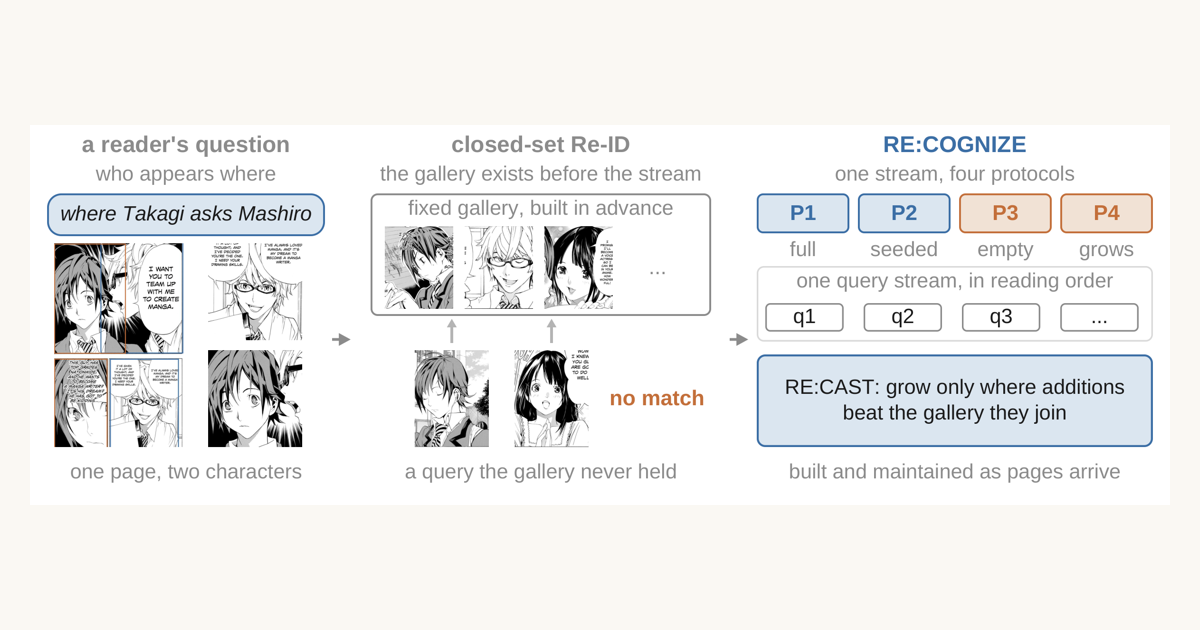
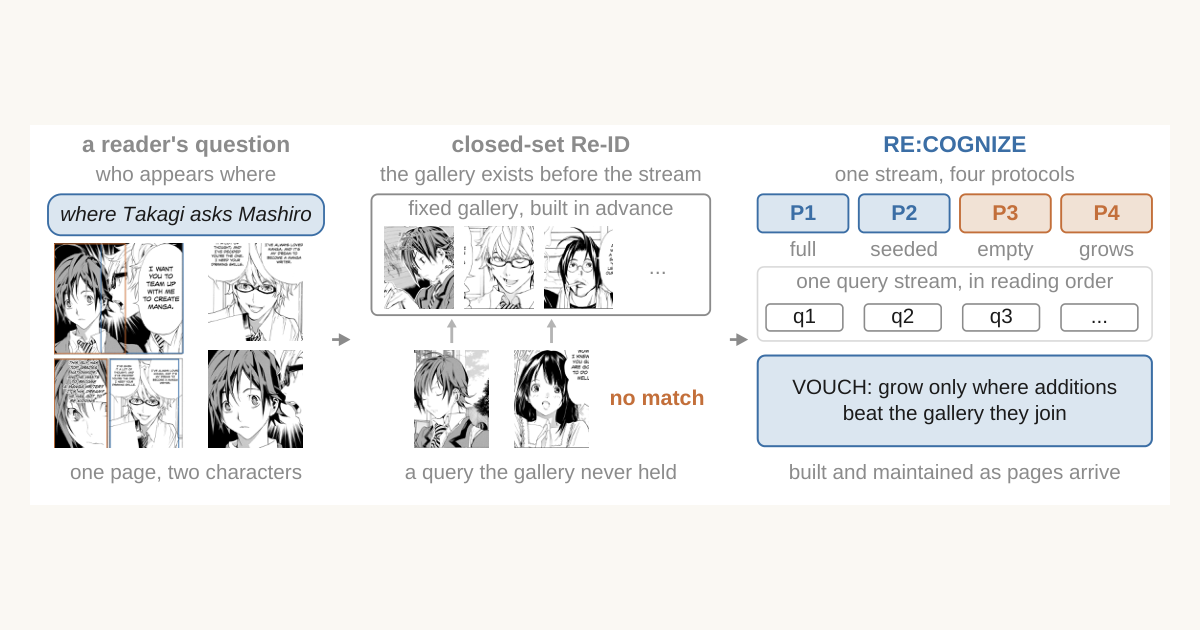
Rename Re:Cast to Vouch
The gallery policy is now Vouch on the project page and in the README:
the section anchor, labels, captions and alt text, the replay and its GIF,
the schematic images, the teaser and the social card. The generator scripts
and the results archive keep their internal recast keys.

diff --git a/project/components/replay/VouchReplay.tsx b/project/components/replay/VouchReplay.tsx
@@ -7,14 +7,14 @@ import {
   streamX, useNarrow, type Char, type StreamGeom,
 } from "./parts";
 
-// Same beat as the protocols loop: lift, deal, match, verdict (and Re:Cast's page check), file, settle.
+// Same beat as the protocols loop: lift, deal, match, verdict (and Vouch's page check), file, settle.
 const LIFT = 0, DEAL = 1, MATCH = 2, VERDICT = 3, FILE = 4;
 const TIMELINE: Timeline = { beats: R.steps.length, phases: [320, 620, 640, 900, 680, 520], intro: 700, hold: 3000, fade: 500 };
 
-type PanelId = "top1" | "recast";
+type PanelId = "top1" | "vouch";
 const PANELS: { id: PanelId; tag: string; title: string; tone: "orange" | "ink" }[] = [
   { id: "top1", tag: "P4", title: "grows by its own top-1", tone: "orange" },
-  { id: "recast", tag: "Re:Cast", title: "one entry each, page-checked", tone: "ink" },
+  { id: "vouch", tag: "Vouch", title: "one entry each, page-checked", tone: "ink" },
 ];
 
 // Panel coordinates (a panel is pw x PH; pw depends on the layout). As in the protocols loop the query
@@ -31,7 +31,7 @@ const SCORE_Y = 252;
 
 type Layout = { w: number; h: number; pw: number; stream: StreamGeom; py: number; px: number[]; shown: PanelId[] };
 const WIDE: Layout = {
-  w: 1214, h: 96 + PH + 4, pw: 602, py: 96, px: [0, 612], shown: ["top1", "recast"],
+  w: 1214, h: 96 + PH + 4, pw: 602, py: 96, px: [0, 612], shown: ["top1", "vouch"],
   stream: { x0: 63.4, dx: 150, y: 18, s: 0.62, pages: true, label: true },
 };
 const narrow = (p: PanelId): Layout => ({
@@ -52,13 +52,13 @@ function rowX(j: number, n: number, pw: number) {
   return ROW_X + j * step;
 }
 
-export function RecastReplay() {
+export function VouchReplay() {
   const loop = useLoop(TIMELINE);
   const { clock, at, epoch, fading } = loop;
   const isNarrow = useNarrow(loop.ref);
-  const [tab, setTab] = useState<PanelId>("recast");
+  const [tab, setTab] = useState<PanelId>("vouch");
   const L = isNarrow ? narrow(tab) : WIDE;
-  const clip = "rp-clip-recast";
+  const clip = "rp-clip-vouch";
 
   const inFlight = (k: number, px: number) =>
     at(k) === LIFT
@@ -68,9 +68,9 @@ export function RecastReplay() {
   // P4: seeds, then every query filed under its top-1 (all of them); as of now, and as of query k.
   const top1Row = (c: Char) => [...seedsOf(c), ...R.stream.filter((_, j) => at(j) >= FILE && steps[j].p4.pred === c)];
   const top1RowBefore = (c: Char, k: number) => [...seedsOf(c), ...R.stream.filter((_, j) => j < k && steps[j].p4.pred === c)];
-  // Re:Cast: the seed, then the queries committed to that character; as of now, and as of query k.
-  const deck = (c: Char) => [...seedsOf(c), ...R.stream.filter((_, j) => at(j) >= FILE && steps[j].recast.commit === c)];
-  const deckBefore = (c: Char, k: number) => [...seedsOf(c), ...R.stream.filter((_, j) => j < k && steps[j].recast.commit === c)];
+  // Vouch: the seed, then the queries committed to that character; as of now, and as of query k.
+  const deck = (c: Char) => [...seedsOf(c), ...R.stream.filter((_, j) => at(j) >= FILE && steps[j].vouch.commit === c)];
+  const deckBefore = (c: Char, k: number) => [...seedsOf(c), ...R.stream.filter((_, j) => j < k && steps[j].vouch.commit === c)];
 
   function panel(p: PanelId, px: number): ReactNode {
     const meta = PANELS.find((x) => x.id === p)!;
@@ -117,7 +117,7 @@ export function RecastReplay() {
           y={ROW_Y[CHARS.indexOf(s.p4.pred)]} s={ROW_S} frame={COLOR[truth(k)]} dashed />);
         return;
       }
-      const c = s.recast.commit;
+      const c = s.vouch.commit;
       if (!filed || !c) {
         if (ak === Infinity) return;                       // held: it leaves the stage
         els.push(<Tile key={`q-${q}`} crop={q} clip={clip} {...inFlight(k, px)} frame={frame} opacity={filed ? 0 : 1} />);
@@ -154,7 +154,7 @@ export function RecastReplay() {
             fill={a >= VERDICT && !ok ? WRONG : INK}>{msg}</text>;
         }
       } else {
-        const rc = s.recast;
+        const rc = s.vouch;
         const d = deckBefore(rc.pred, cur);
         const t = { x: ROW_X + (d.length - 1) * DECK_DX, y: ROW_Y[CHARS.indexOf(rc.pred)] };
         const ok = rc.pred === s.truth;
@@ -202,9 +202,9 @@ export function RecastReplay() {
     }
 
     const scored = R.stream.map((_, j) => j).filter((j) => at(j) >= VERDICT);
-    const added = R.stream.map((_, j) => j).filter((j) => at(j) >= FILE && (p === "top1" || steps[j].recast.commit));
-    const pred = (j: number) => (p === "top1" ? steps[j].p4.pred : steps[j].recast.pred);
-    const filedAs = (j: number) => (p === "top1" ? steps[j].p4.pred : steps[j].recast.commit);
+    const added = R.stream.map((_, j) => j).filter((j) => at(j) >= FILE && (p === "top1" || steps[j].vouch.commit));
+    const pred = (j: number) => (p === "top1" ? steps[j].p4.pred : steps[j].vouch.pred);
+    const filedAs = (j: number) => (p === "top1" ? steps[j].p4.pred : steps[j].vouch.commit);
     const right = scored.filter((j) => pred(j) === truth(j)).length;
     const wrong = added.filter((j) => filedAs(j) !== truth(j)).length;
     let score = scored.length ? `${right} of ${scored.length} right` : "–";
@@ -229,13 +229,13 @@ export function RecastReplay() {
     <ReplayCard
       cardRef={loop.ref}
       tabs={isNarrow ? (
-        <Tabs items={PANELS.map((p) => ({ id: p.id, label: p.id === "top1" ? "P4 · grows by top-1" : "Re:Cast" }))} value={tab} onChange={setTab} />
+        <Tabs items={PANELS.map((p) => ({ id: p.id, label: p.id === "top1" ? "P4 · grows by top-1" : "Vouch" }))} value={tab} onChange={setTab} />
       ) : undefined}
       ratio={L.w / L.h}
       fit={FIT}
       stage={(
         <svg viewBox={`0 0 ${L.w} ${L.h}`} className="rp-svg block h-auto w-full" role="img"
-          aria-label="The same eight crops against two ways of growing the gallery: filing every query under its top-1 match ends at five of eight with three wrong additions, Re:Cast adds only the two crops their page ties to a seed and ends at seven of eight.">
+          aria-label="The same eight crops against two ways of growing the gallery: filing every query under its top-1 match ends at five of eight with three wrong additions, Vouch adds only the two crops their page ties to a seed and ends at seven of eight.">
           <ClipDef id={clip} />
           <g key={`${epoch}-${isNarrow ? tab : "wide"}`} className="rp-stage" style={{ opacity: fading ? 0 : 1 }}>
             <StreamStrip g={L.stream} clip={clip} clock={clock} at={at} />
@@ -252,11 +252,11 @@ export function RecastReplay() {
       clock={clock}
       beats={steps.length}
       status={status}
-      lead="Growth by top-1 against Re:Cast, on the same stream."
+      lead="Growth by top-1 against Vouch, on the same stream."
       caption={(
         <>
           Both start from one seed per character. P4 files every query under its top-1 match, so the page-29 mistake
-          stays in the gallery and is matched again. Re:Cast keeps one averaged entry per character and adds a crop only
+          stays in the gallery and is matched again. Vouch keeps one averaged entry per character and adds a crop only
           when MagiV2&rsquo;s page grouping ties it to a crop already committed, here the seeds on pages 17 and 50;
           everywhere else it holds.
         </>

diff --git a/project/content.tsx b/project/content.tsx
@@ -38,7 +38,7 @@ export const NAV = [
   { id: "findings", label: "Findings" },
   { id: "protocols", label: "Protocols" },
   { id: "commit-condition", label: "Commit condition" },
-  { id: "recast", label: "Re:Cast" },
+  { id: "vouch", label: "Vouch" },
   { id: "results", label: "Results" },
   { id: "resources", label: "Code & data" },
   { id: "citation", label: "Cite" },
@@ -54,7 +54,7 @@ export const TEASER = {
     "Left: a reader's question, such as where Takagi asks Mashiro, depends on who appears on which page. Centre: " +
     "standard Re-ID matches each query against a gallery built before reading starts, so a new character finds no " +
     "match. Right: Re:Cognize streams crops in reading order against four galleries: every character (P1), a few " +
-    "labelled examples of each (P2), none (P3), or a few that grow as it reads (P4). Re:Cast grows the gallery only " +
+    "labelled examples of each (P2), none (P3), or a few that grow as it reads (P4). Vouch grows the gallery only " +
     "where additions are right more often than the gallery on the queries they take over.",
 };
 
@@ -78,10 +78,10 @@ export const ABSTRACT = [
     "accuracy. The bottleneck is acceptance, not vision, and one comparison decides it: an addition pays exactly " +
     "when it is right more often than the cast already was on the queries it takes over. The comparison has nothing " +
     "to fit, and measured on half of a new corpus it calls the other half correctly.",
-  "Re:Cast puts it to work with nothing fitted on data: a cast sheet of one running average per character, grown " +
+  "Vouch puts it to work with nothing fitted on data: a cast sheet of one running average per character, grown " +
     "only where the page itself vouches for a crop. It recovers a third to two thirds of what perfect labels would, " +
     "depending on whether the cast starts from random examples or from first appearances. Re:Cognize measures " +
-    "whether a model can read along; Re:Cast is a cast that does.",
+    "whether a model can read along; Vouch builds a cast that does.",
   "Our claims are on identity maintenance, recognising characters already met; the emergence of new ones is " +
     "measured as a diagnostic under a fixed reference rule, and we propose no method for it.",
 ];
@@ -108,14 +108,14 @@ export const HIGHLIGHTS = [
   },
   {
     icon: "cast",
-    title: "Re:Cast reads along",
+    title: "Vouch reads along",
     text:
       "One running average per character, grown only where the page itself vouches for a crop, recovers a third " +
       "to two thirds of what perfect labels would.",
   },
 ];
 
-export const QUOTE = "Re:Cognize measures whether a model can read along; Re:Cast is a cast that does.";
+export const QUOTE = "Re:Cognize measures whether a model can read along; Vouch builds a cast that does.";
 
 export const PROTOCOLS_FIGURE: { src: string; width: number; height: number; alt: string; caption: ReactNode } = {
   src: "/figures/protocols.png",
@@ -194,17 +194,17 @@ export const COMMIT_OUTRO: ReactNode = (
   </>
 );
 
-export const RECAST_FIGURES = [
-  { src: "/figures/recast_schematic_a.png", width: 2400, height: 800, alt: "Re:Cast: cast sheet, commitment and seed expansion" },
-  { src: "/figures/recast_schematic_b.png", width: 2400, height: 600, alt: "Over six pages the cast sheet is updated only on the pages that name the character" },
+export const VOUCH_FIGURES = [
+  { src: "/figures/vouch_schematic_a.png", width: 2400, height: 800, alt: "Vouch: cast sheet, commitment and seed expansion" },
+  { src: "/figures/vouch_schematic_b.png", width: 2400, height: 600, alt: "Over six pages the cast sheet is updated only on the pages that name the character" },
 ];
 
-export const RECAST_CAPTION =
+export const VOUCH_CAPTION =
   "on Re:Zero crops from Re:Verse, with Rom as identity A. Top: the three changes. A page names a character when " +
   "one of its crops is already committed to it, and commitment then adds that crop's page-group sibling. Bottom: " +
   "over six pages the cast sheet is updated only on the four that name Rom; elsewhere the rule abstains.";
 
-export const RECAST_CHANGES = [
+export const VOUCH_CHANGES = [
   {
     label: "a",
     title: "A cast sheet, not a bag of crops",
@@ -229,8 +229,8 @@ export const RECAST_CHANGES = [
 ];
 
 export const BINDING_FIGURES = [
-  { src: "/figures/recast_binding.png", width: 2400, height: 800, alt: "Binding: page groups merged in reading order and named by their first seed" },
-  { src: "/figures/recast_commit_flow.png", width: 2400, height: 600, alt: "Pricing the binder: crops are committed when the commit condition predicts a gain" },
+  { src: "/figures/vouch_binding.png", width: 2400, height: 800, alt: "Binding: page groups merged in reading order and named by their first seed" },
+  { src: "/figures/vouch_commit_flow.png", width: 2400, height: 600, alt: "Pricing the binder: crops are committed when the commit condition predicts a gain" },
 ];
 
 export const BINDING_CAPTION =
@@ -259,7 +259,7 @@ export const RESOURCES = [
   {
     icon: "code",
     title: "Code",
-    text: "The evaluation harness with all four protocols, Re:Cast, the memory-block baseline, and the analyses behind every number in the paper.",
+    text: "The evaluation harness with all four protocols, Vouch, the memory-block baseline, and the analyses behind every number in the paper.",
     href: CODE_URL,
     label: "github.com/eternal-f1ame/Re-Cognize",
   },
@@ -287,7 +287,7 @@ export const RESOURCES = [
   {
     icon: "book",
     title: "Re:Verse",
-    text: "The Re:Zero annotations behind the Re:Cast and binding figures.",
+    text: "The Re:Zero annotations behind the Vouch and binding figures.",
     href: "https://re-verse.vercel.app",
     label: "re-verse.vercel.app",
   },

diff --git a/project/components/Vouch.tsx b/project/components/Vouch.tsx
@@ -1,8 +1,8 @@
 import { Section } from "./Section";
 import { Figure } from "./Figure";
 import type { Fit } from "./fit";
-import { RecastReplay } from "./replay/RecastReplay";
-import { BINDING_CAPTION, BINDING_FIGURES, RECAST_CAPTION, RECAST_CHANGES, RECAST_FIGURES } from "../content";
+import { VouchReplay } from "./replay/VouchReplay";
+import { BINDING_CAPTION, BINDING_FIGURES, VOUCH_CAPTION, VOUCH_CHANGES, VOUCH_FIGURES } from "../content";
 
 // The schematic shares the screen with its card padding and its caption below.
 const SCHEMATIC_FIT: Fit = { reserve: "7rem" };
@@ -10,21 +10,21 @@ const SCHEMATIC_FIT: Fit = { reserve: "7rem" };
 // card padding shares the height.
 const BINDING_FIT: Fit = { reserve: "15rem", reserveLg: "3rem" };
 
-export function ReCast() {
+export function Vouch() {
   return (
-    <Section id="recast" index={5} kicker="Re:Cast" title="A cast that reads along"
+    <Section id="vouch" index={5} kicker="Vouch" title="A cast that reads along"
       lead="A cast sheet of one running average per character, grown only where the page itself vouches for a crop, with nothing fitted on data.">
-      <RecastReplay />
+      <VouchReplay />
 
       {/* the schematic, with the three changes it draws beside it on wide screens */}
       <div data-fit-row="" className="mt-8 grid items-start gap-x-[2.5vw] gap-y-6 lg:grid-cols-[minmax(0,2.3fr)_minmax(0,1fr)]">
-        <Figure images={RECAST_FIGURES} lead="Re:Cast" caption={RECAST_CAPTION} fit={SCHEMATIC_FIT}
+        <Figure images={VOUCH_FIGURES} lead="Vouch" caption={VOUCH_CAPTION} fit={SCHEMATIC_FIT}
           sizes="(min-width: 64rem) 66vw, 100vw" />
         {/* the column stretches to the row's height and the cards stick under the nav while the schematic
             scrolls past, as the abstract's scope note does */}
         <div className="lg:self-stretch">
           <div className="grid gap-4 md:grid-cols-3 lg:sticky lg:top-[calc(var(--nav-h)+1.5rem)] lg:grid-cols-1">
-            {RECAST_CHANGES.map((c) => (
+            {VOUCH_CHANGES.map((c) => (
               <article key={c.title} className="panel p-4">
                 <div className="flex items-center gap-3">
                   <span className="grid h-8 w-8 shrink-0 place-items-center rounded-full border-2 border-[var(--line)] bg-[var(--orange)] font-display text-sm font-extrabold text-[var(--paper)]">

diff --git a/project/app/page.tsx b/project/app/page.tsx
@@ -4,7 +4,7 @@ import { Abstract } from "../components/Abstract";
 import { Highlights } from "../components/Highlights";
 import { Protocols } from "../components/Protocols";
 import { CommitCondition } from "../components/CommitCondition";
-import { ReCast } from "../components/ReCast";
+import { Vouch } from "../components/Vouch";
 import { Results } from "../components/Results";
 import { Resources } from "../components/Resources";
 import { Citation } from "../components/Citation";
@@ -20,7 +20,7 @@ export default function Home() {
         <Highlights />
         <Protocols />
         <CommitCondition />
-        <ReCast />
+        <Vouch />
         <Results />
         <Resources />
         <Citation />

diff --git a/project/components/replay/parts.tsx b/project/components/replay/parts.tsx
@@ -16,7 +16,7 @@ export type Step = {
   p2: Match;
   p3: { cluster: number; best: number | null; open: boolean };
   p4: Match;
-  recast: { pred: Char; sims: Record<Char, number>; commit: Char | null; via: string | null };
+  vouch: { pred: Char; sims: Record<Char, number>; commit: Char | null; via: string | null };
 };
 export type Replay = {
   encoder: string;

diff --git a/project/scripts/make_replay.py b/project/scripts/make_replay.py
@@ -10,7 +10,7 @@ eight steps; every decision on it is computed here, none is drawn by hand:
 - P1 and P2 rank a fixed gallery (P1 holds two crops of Takagi and Mashiro, P2 one seed each);
 - P3 is `recognize.protocols.rules.fixed` at TAU_NOV on the stream alone;
 - P4 starts from P2's seeds and files every query under its top-1 identity, after scoring it;
-- Re:Cast keeps one L2-normalised mean per character and files a query only when MagiV2's page
+- Vouch keeps one L2-normalised mean per character and files a query only when MagiV2's page
   group (results/panels/Bakuman.json) links it to a crop already committed, as the `mustlink`
   policy of `run_p4` does.
 
@@ -54,7 +54,7 @@ PAGE = "Bakuman - c001 (web) - p%03d [Unknown]"
 # (page, annotation index) of every crop the loops show. The gallery is the protocols figure's.
 GALLERY = {"T1": (17, 0), "T2": (25, 4), "M1": (12, 1), "M2": (11, 3), "A1": (50, 2)}
 P1_GALLERY = ["T1", "T2", "M1", "M2", "A1"]
-SEEDS = ["T1", "M1", "A1"]              # P2, P4 and Re:Cast start from one seed per character
+SEEDS = ["T1", "M1", "A1"]              # P2, P4 and Vouch start from one seed per character
 STREAM = {"q1": (8, 0), "q2": (17, 6), "q3": (25, 6), "q4": (29, 0),
           "q5": (43, 1), "q6": (44, 0), "q7": (47, 0), "q8": (50, 3)}
 
@@ -155,7 +155,7 @@ def main() -> int:
         pred = max(sims, key=sims.get)
         via = [m for m, c in committed.items() if group[m] is not None and group[m] == group[q]]
         commit = committed[via[0]] if via else None
-        step["recast"] = {"pred": pred, "sims": sims, "commit": commit, "via": via[0] if via else None}
+        step["vouch"] = {"pred": pred, "sims": sims, "commit": commit, "via": via[0] if via else None}
         if commit:
             cast[commit].append(q)
             committed[q] = commit
@@ -179,11 +179,11 @@ def main() -> int:
     OUT_JSON.parent.mkdir(parents=True, exist_ok=True)
     OUT_JSON.write_text(json.dumps(data, indent=1) + "\n")
 
-    right = {p: sum(s[p]["pred"] == s["truth"] for s in steps) for p in ("p1", "p2", "p4", "recast")}
+    right = {p: sum(s[p]["pred"] == s["truth"] for s in steps) for p in ("p1", "p2", "p4", "vouch")}
     wrong_adds = sum(s["p4"]["pred"] != s["truth"] for s in steps)
     print(f"[replay] Rank-1 over {len(steps)} queries: {right}; P4 wrong additions {wrong_adds}; "
-          f"P3 clusters {len(set(clusters))}; Re:Cast commits "
-          f"{[s['q'] for s in steps if s['recast']['commit']]}")
+          f"P3 clusters {len(set(clusters))}; Vouch commits "
+          f"{[s['q'] for s in steps if s['vouch']['commit']]}")
     print(f"[replay] wrote {OUT_JSON.relative_to(ROOT)} and {len(crops)} thumbnails")
     return 0
 

diff --git a/README.md b/README.md
@@ -41,22 +41,22 @@ stream of character crops in reading order, answered against four galleries.
 The paper finds that assembling a gallery is close to solved, while growing one is not. A
 gallery that adds the model's own matches gets worse, while the same growth with correct labels
 would add over twenty points of top-1 accuracy. One comparison decides whether a change to the
-gallery pays. **Re:Cast** acts on it with nothing fitted on data: one running average per
+gallery pays. **Vouch** acts on it with nothing fitted on data: one running average per
 character, grown only where the page vouches for a crop. A memory-augmented encoder serves as
 the maintenance baseline.
 
 <p align="center">
-  <img src="docs/media/recast-loop.gif" width="95%" alt="The same eight crops against growth by top-1 and against Re:Cast">
+  <img src="docs/media/vouch-loop.gif" width="95%" alt="The same eight crops against growth by top-1 and against Vouch">
   <br><sub>The same stream against two ways of growing the gallery. Growth by top-1 ends at five of eight with three wrong
-  additions; Re:Cast adds only the two crops their page ties to a seed and ends at seven of eight.</sub>
+  additions; Vouch adds only the two crops their page ties to a seed and ends at seven of eight.</sub>
 </p>
 
 <p align="center">
-  <img src="project/public/figures/recast_schematic_a.png" width="95%" alt="Re:Cast: a cast sheet of one average per character, commitment only where the page already names the character, and seed expansion">
-  <img src="project/public/figures/recast_schematic_b.png" width="95%" alt="Over six pages the cast sheet is updated only on the pages that name the character">
+  <img src="project/public/figures/vouch_schematic_a.png" width="95%" alt="Vouch: a cast sheet of one average per character, commitment only where the page already names the character, and seed expansion">
+  <img src="project/public/figures/vouch_schematic_b.png" width="95%" alt="Over six pages the cast sheet is updated only on the pages that name the character">
 </p>
 
-This repository holds the evaluation harness, the Re:Cast gallery, the memory-block baseline and
+This repository holds the evaluation harness, the Vouch gallery, the memory-block baseline and
 its trainer, the analysis scripts behind every number in the paper, and the generators of its
 tables and figures.
 
@@ -67,7 +67,7 @@ src/recognize/       evaluation harness: data and reading order, backbones, metr
 src/memory_block/    the memory-block baseline and its trainer
 scripts/             train.py and evaluate.py launchers, weights and results fetchers, reports, SLURM examples
 configs/             series splits and the training campaign
-analysis/            the analyses behind the paper's numbers (Re:Cast, binding, diagnostics)
+analysis/            the analyses behind the paper's numbers (Vouch, binding, diagnostics)
 paper/               generators of the paper's tables and figures
 docs/                protocols.md (the specification) and reproducing.md (every command)
 tests/               unit and regression tests

diff --git a/docs/reproducing.md b/docs/reproducing.md
@@ -375,7 +375,7 @@ figure's text at the size the paper prints it.
 | Table 2, cross-protocol summary | `python paper/paper_tables.py --table cross --out paper/generated/tables/popcharacters_eval_scores.tex` |
 | Table 3, P3 on full streams | `results/p3_tau.json` (fixed rule at 0.55 and 0.80) and the `nmi` fields of `results/popcharacters/*_finetuned_seed0/` and `results/p3tau80/` |
 | Table 4, the commit condition | `python paper/paper_tables_recast.py --table commit --out paper/generated/tables/commit_condition.tex` |
-| Table 5, Re:Cast one change at a time | `python paper/paper_tables_recast.py --table recast --out paper/generated/tables/recast_combined.tex` |
+| Table 5, Vouch one change at a time | `python paper/paper_tables_recast.py --table recast --out paper/generated/tables/recast_combined.tex` |
 | Table 6, two-stage binding | `python paper/paper_tables_recast.py --table transport --out paper/generated/tables/transport_results.tex` |
 | Figure 2, the four protocols | `python paper/protocols_figure.py` (draws crops from the datasets) |
 | Figure 3 (a)-(c) | `python paper/paper_figures.py` |
@@ -399,4 +399,4 @@ figure's text at the size the paper prints it.
 
 Figure 1 and Tables 1, 7 and 8 are written or drawn by hand. `python paper/paper_tables.py --check`
 prints every grid cell with its spread over training runs, and `python paper/paper_tables_recast.py
---table <name> --check` prints a Re:Cast table's numbers instead of its LaTeX.
+--table <name> --check` prints a Vouch table's numbers instead of its LaTeX.
